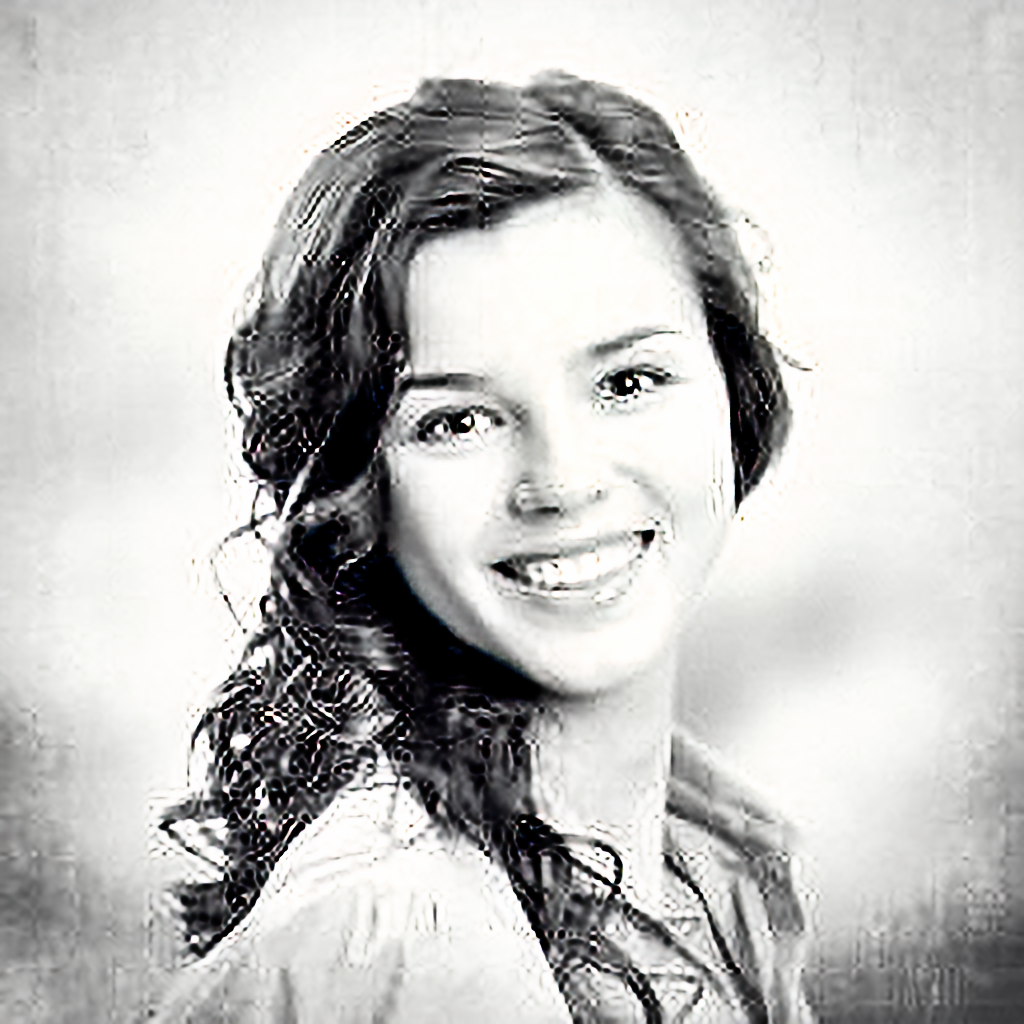
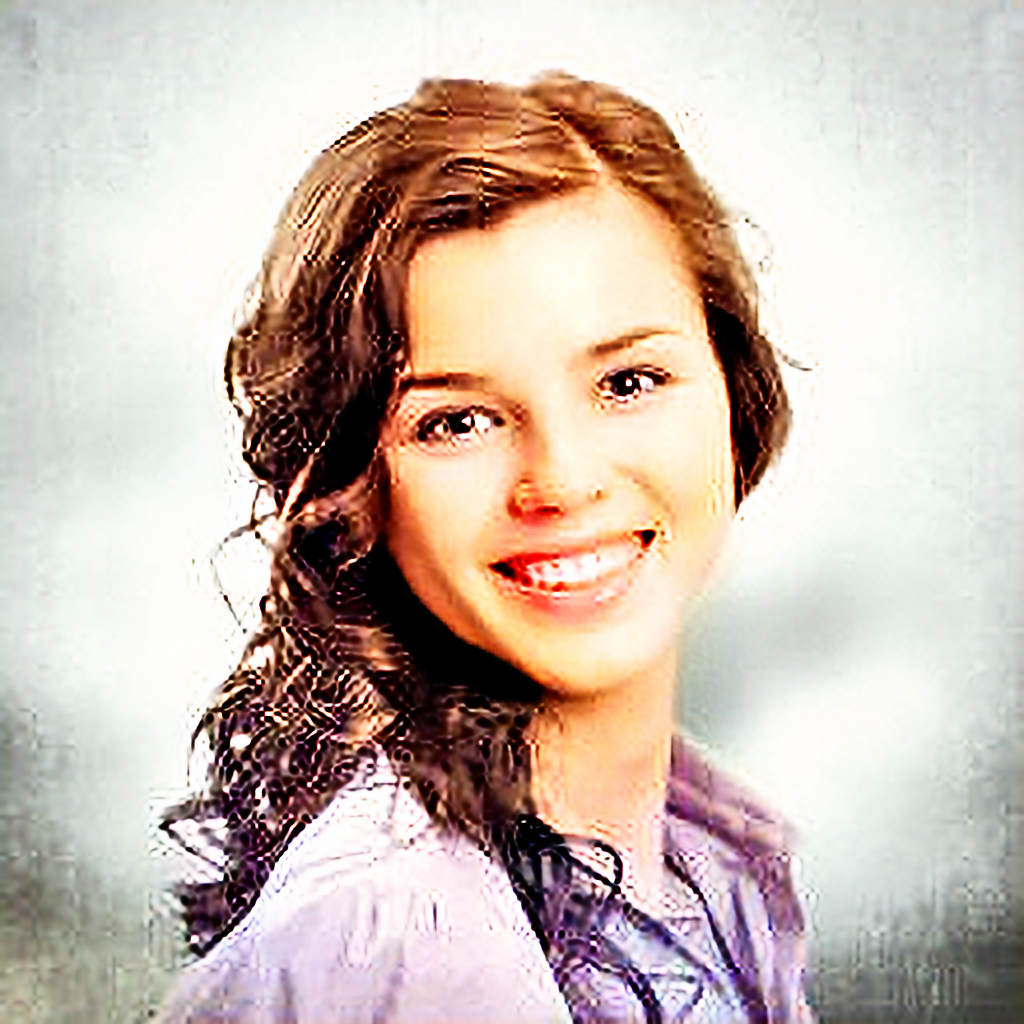
fixes

Changed region(s): [[0.1875, 0.0625, 0.7812, 1.0], [0.4062, 0.875, 0.4375, 0.9062], [0.3438, 0.9688, 0.375, 1.0]]

diff --git a/client/src/pages/playground/react-flow-canvas.tsx b/client/src/pages/playground/react-flow-canvas.tsx
@@ -158,6 +158,7 @@ const ReactFlowCanvas = forwardRef<ReactFlowCanvasRef, PipelineProps>(({ shouldC
                 let processedFile = inputNode.data.file;
 
 
+
                 while (true) {
                     const outgoers = getOutgoers(currentNode, nodes, edges);
                     if (outgoers.length === 0) break;
@@ -177,6 +178,28 @@ const ReactFlowCanvas = forwardRef<ReactFlowCanvasRef, PipelineProps>(({ shouldC
                                     },
                                     body: JSON.stringify({
                                         image: processedFile,
+                                        model: nextNode.data.label,
+                                    }),
+                                });
+
+
+                                if (!response.ok) {
+                                    throw new Error(`Processing failed at ${nextNode.data.label}`);
+                                }
+
+                                const result = await response.json();
+                                processedFile = result.processedImage;
+
+                            }
+                            else if (nextNode.data.label == "Stylize") {
+                                const response = await fetch('http://localhost:3000/stylize/image', {
+                                    method: 'POST',
+                                    headers: {
+                                        'Content-Type': 'application/json',
+                                    },
+                                    body: JSON.stringify({
+                                        image1: inputNodes[0].data.file,
+                                        image2: inputNodes[1].data.file,
                                         model: nextNode.data.label,
                                     }),
                                 });

diff --git a/client/src/pages/playground/components-sidebar.tsx b/client/src/pages/playground/components-sidebar.tsx
@@ -79,7 +79,8 @@ const ComponentsSideBar = ({ onClear, onRunPipeline, isProcessing }: ComponentsS
 
     const imageToImage = [
         { type: 'model', name: 'EnRes', color: 'blue', image: null },
-        { type: 'model', name: 'Colorization', color: 'blue', image: null }
+        { type: 'model', name: 'Colorization', color: 'blue', image: null },
+        { type: 'model', name: 'Stylize', color: 'blue', image: null }
     ];
 
     const text_to_image = [

diff --git a/ai/app.py b/ai/app.py
@@ -9,6 +9,7 @@ from torch.utils.data import DataLoader
 from srgan_model import Generator
 from dataset import *
 from io import BytesIO
+import io
 import cv2
 import numpy as np
 from tqdm import tqdm
@@ -16,7 +17,9 @@ import base64
 import requests
 from pathlib import Path
 from deoldify.visualize import get_image_colorizer
-import shutil, sys  
+import shutil, sys 
+import tensorflow_hub as hub
+import tensorflow as tf
 
 app = Flask(__name__)
 CORS(app, resources={r"/enhance/image": {"origins": "*"}}, supports_credentials=True)
@@ -24,6 +27,9 @@ CORS(app, resources={r"/enhance/video": {"origins": "*"}}, supports_credentials=
 CORS(app, resources={r"/enhance/text": {"origins": "*"}}, supports_credentials=True)
 CORS(app, resources={r"/colorize/image": {"origins": "*"}}, supports_credentials=True)
 CORS(app, resources={r"/colorize/video": {"origins": "*"}}, supports_credentials=True)
+CORS(app, resources={r"/stylize/image": {"origins": "*"}}, supports_credentials=True)
+
+
 
 UPLOAD_FOLDER = 'test_data/test'
 RESULT_FOLDER = 'result'
@@ -562,6 +568,83 @@ def video_colorizer():
         if 'clean_up_frames' in locals():
             clean_up_frames()  # Clean up on error
         return jsonify({"error": str(e)}), 500
+    
+    
+    
+@app.route('/stylize/image', methods=['POST'])
+
+def stylize_image_main():
+    
+    def data_url_to_image(data_url):
+        header, encoded = data_url.split(",", 1)
+        binary_data = base64.b64decode(encoded)
+    
+        buffer = io.BytesIO(binary_data)
+        image = Image.open(buffer)
+        
+        return image
+
+    def load_img(image, max_dim=512):
+        """Load and preprocess image for model input"""
+        # Convert PIL Image to tensor
+        img = tf.convert_to_tensor(np.array(image))
+        img = tf.cast(img, tf.float32)
+        img = img / 255.0  # Normalize to [0,1]
+
+        shape = tf.cast(tf.shape(img)[:-1], tf.float32)
+        long_dim = max(shape)
+        scale = max_dim / long_dim
+
+        new_shape = tf.cast(shape * scale, tf.int32)
+        img = tf.image.resize(img, new_shape)
+        img = img[tf.newaxis, :]
+        return img
+
+    def tensor_to_image(tensor):
+        """Convert tensor to PIL Image"""
+        tensor = tensor * 255
+        tensor = np.array(tensor, dtype=np.uint8)
+        if np.ndim(tensor) > 3:
+            assert tensor.shape[0] == 1
+            tensor = tensor[0]
+        return Image.fromarray(tensor)
+
+    try:
+        data = request.get_json()
+    
+        if not data or 'image1' not in data or 'image2' not in data:
+            return jsonify({'error': 'Missing image data'}), 400
+        
+        hub_model = hub.load('https://tfhub.dev/google/magenta/arbitrary-image-stylization-v1-256/2')
+        
+        content_data_url=data['image1']
+        style_data_url=data['image2']
+        content_image = data_url_to_image(content_data_url)
+        style_image = data_url_to_image(style_data_url)
+        
+        # Preprocess images
+        content_tensor = load_img(content_image)
+        style_tensor = load_img(style_image)
+        
+        # Perform style transfer
+        stylized_image = hub_model(tf.constant(content_tensor), tf.constant(style_tensor))[0]
+        
+        # Convert result to PIL Image
+        output_image = tensor_to_image(stylized_image)
+        
+        # Convert back to data URL
+        result_data_url = image_to_data_url(output_image)
+        
+        return jsonify({
+            "success": True,
+            "processedImage": result_data_url
+        })
+
+        
+    except Exception as e:
+        return jsonify({'error': str(e)}), 500
+    
+
         
 if __name__ == '__main__':
     app.run(debug=True,port=3000,host="0.0.0.0")
